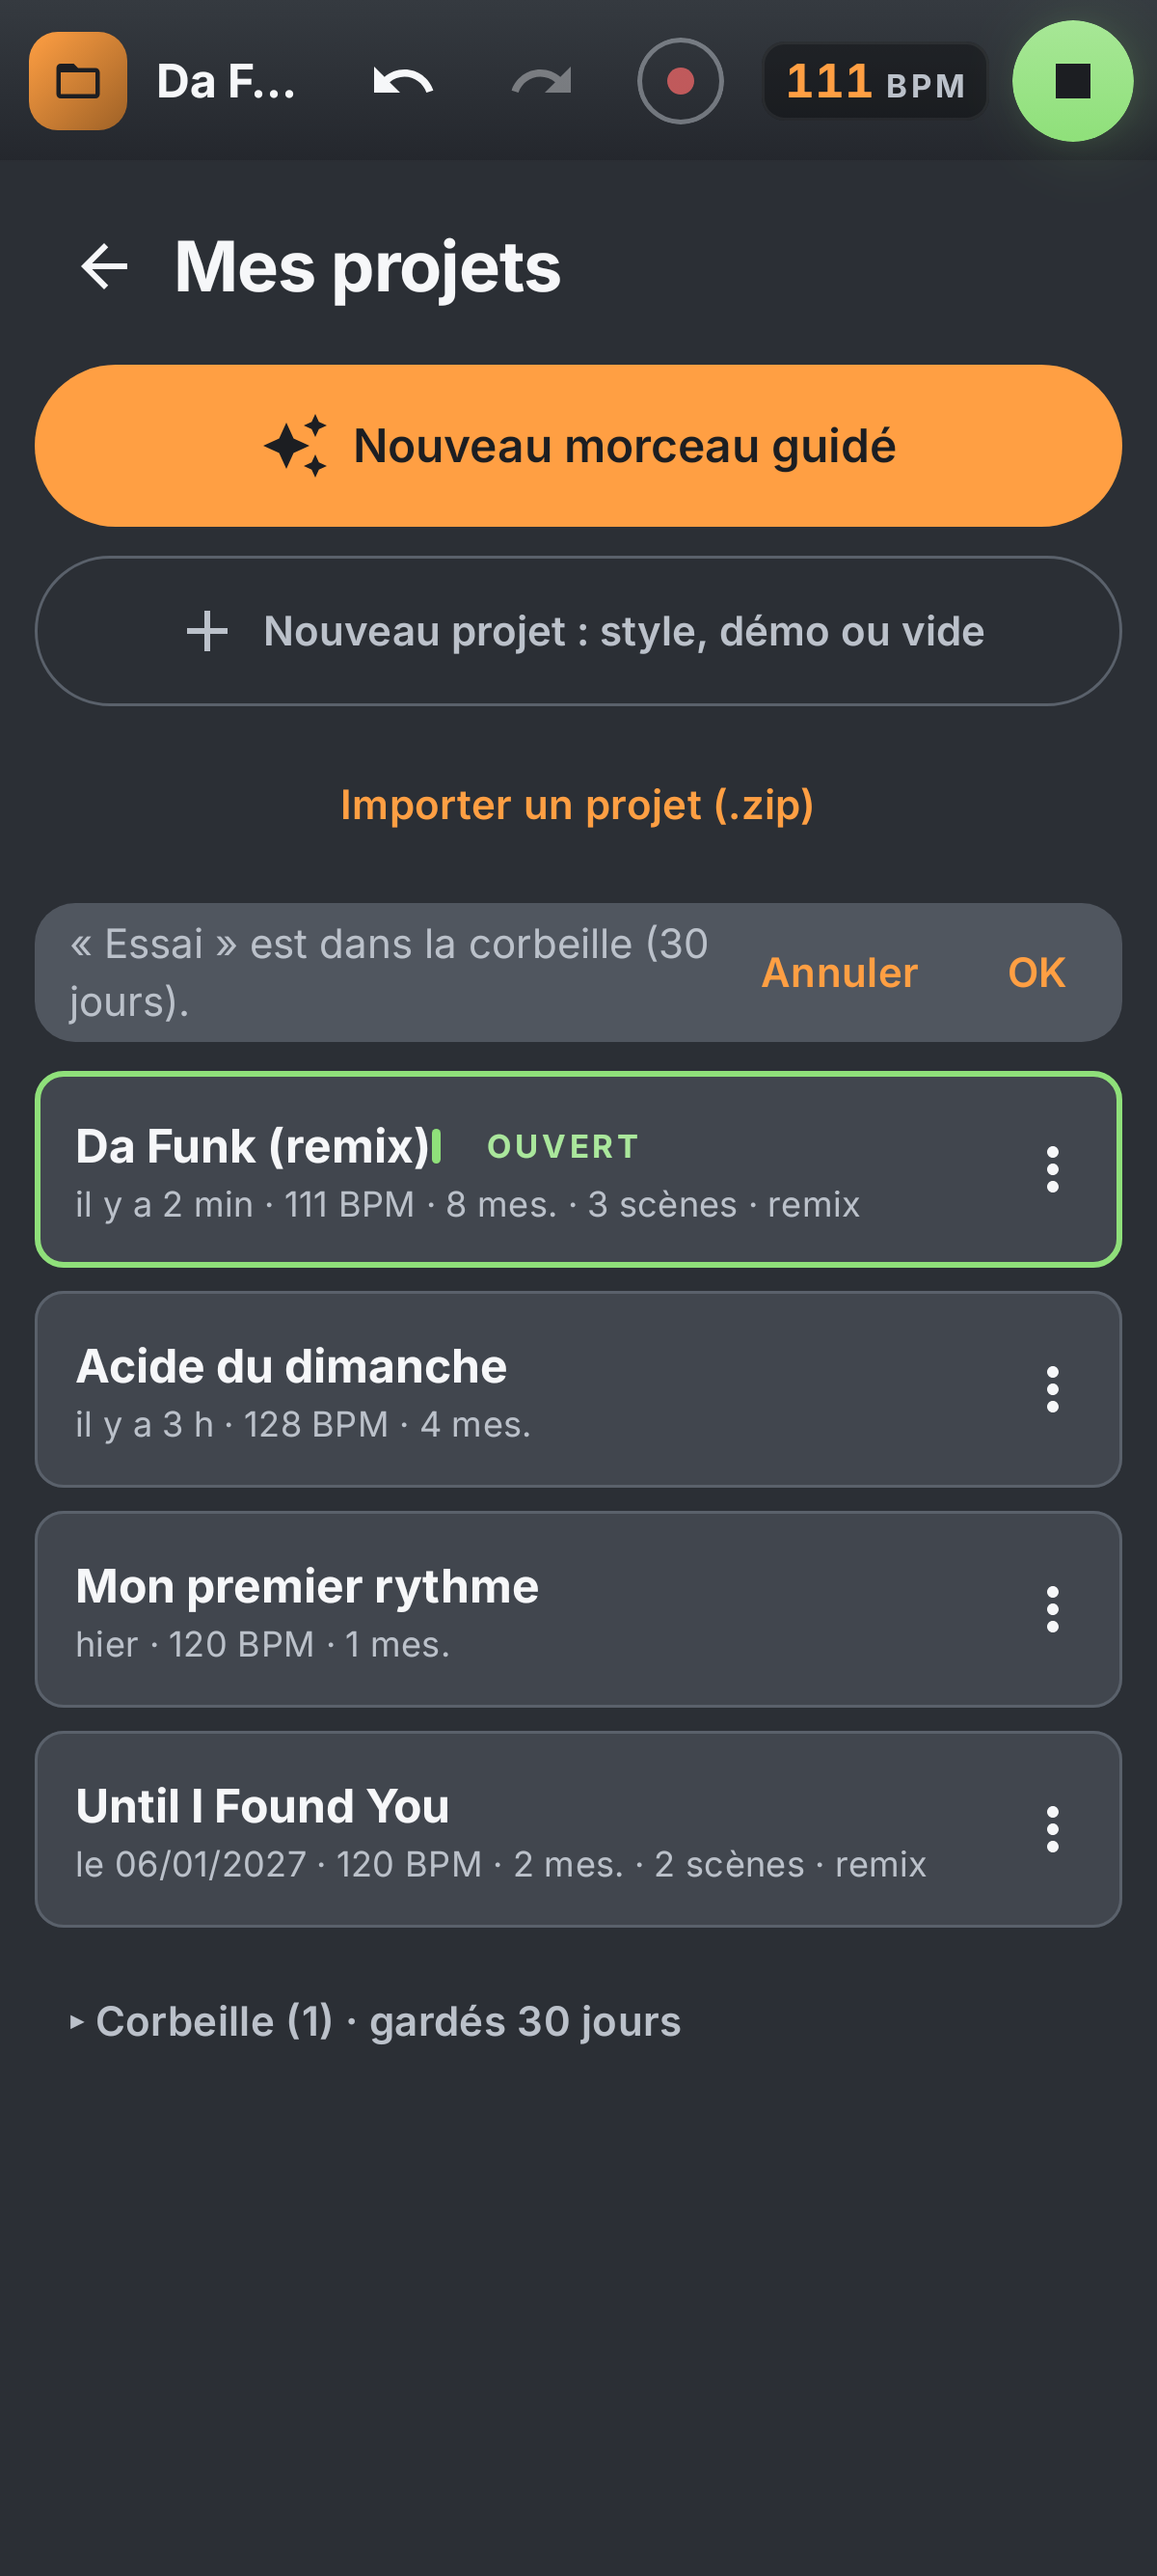
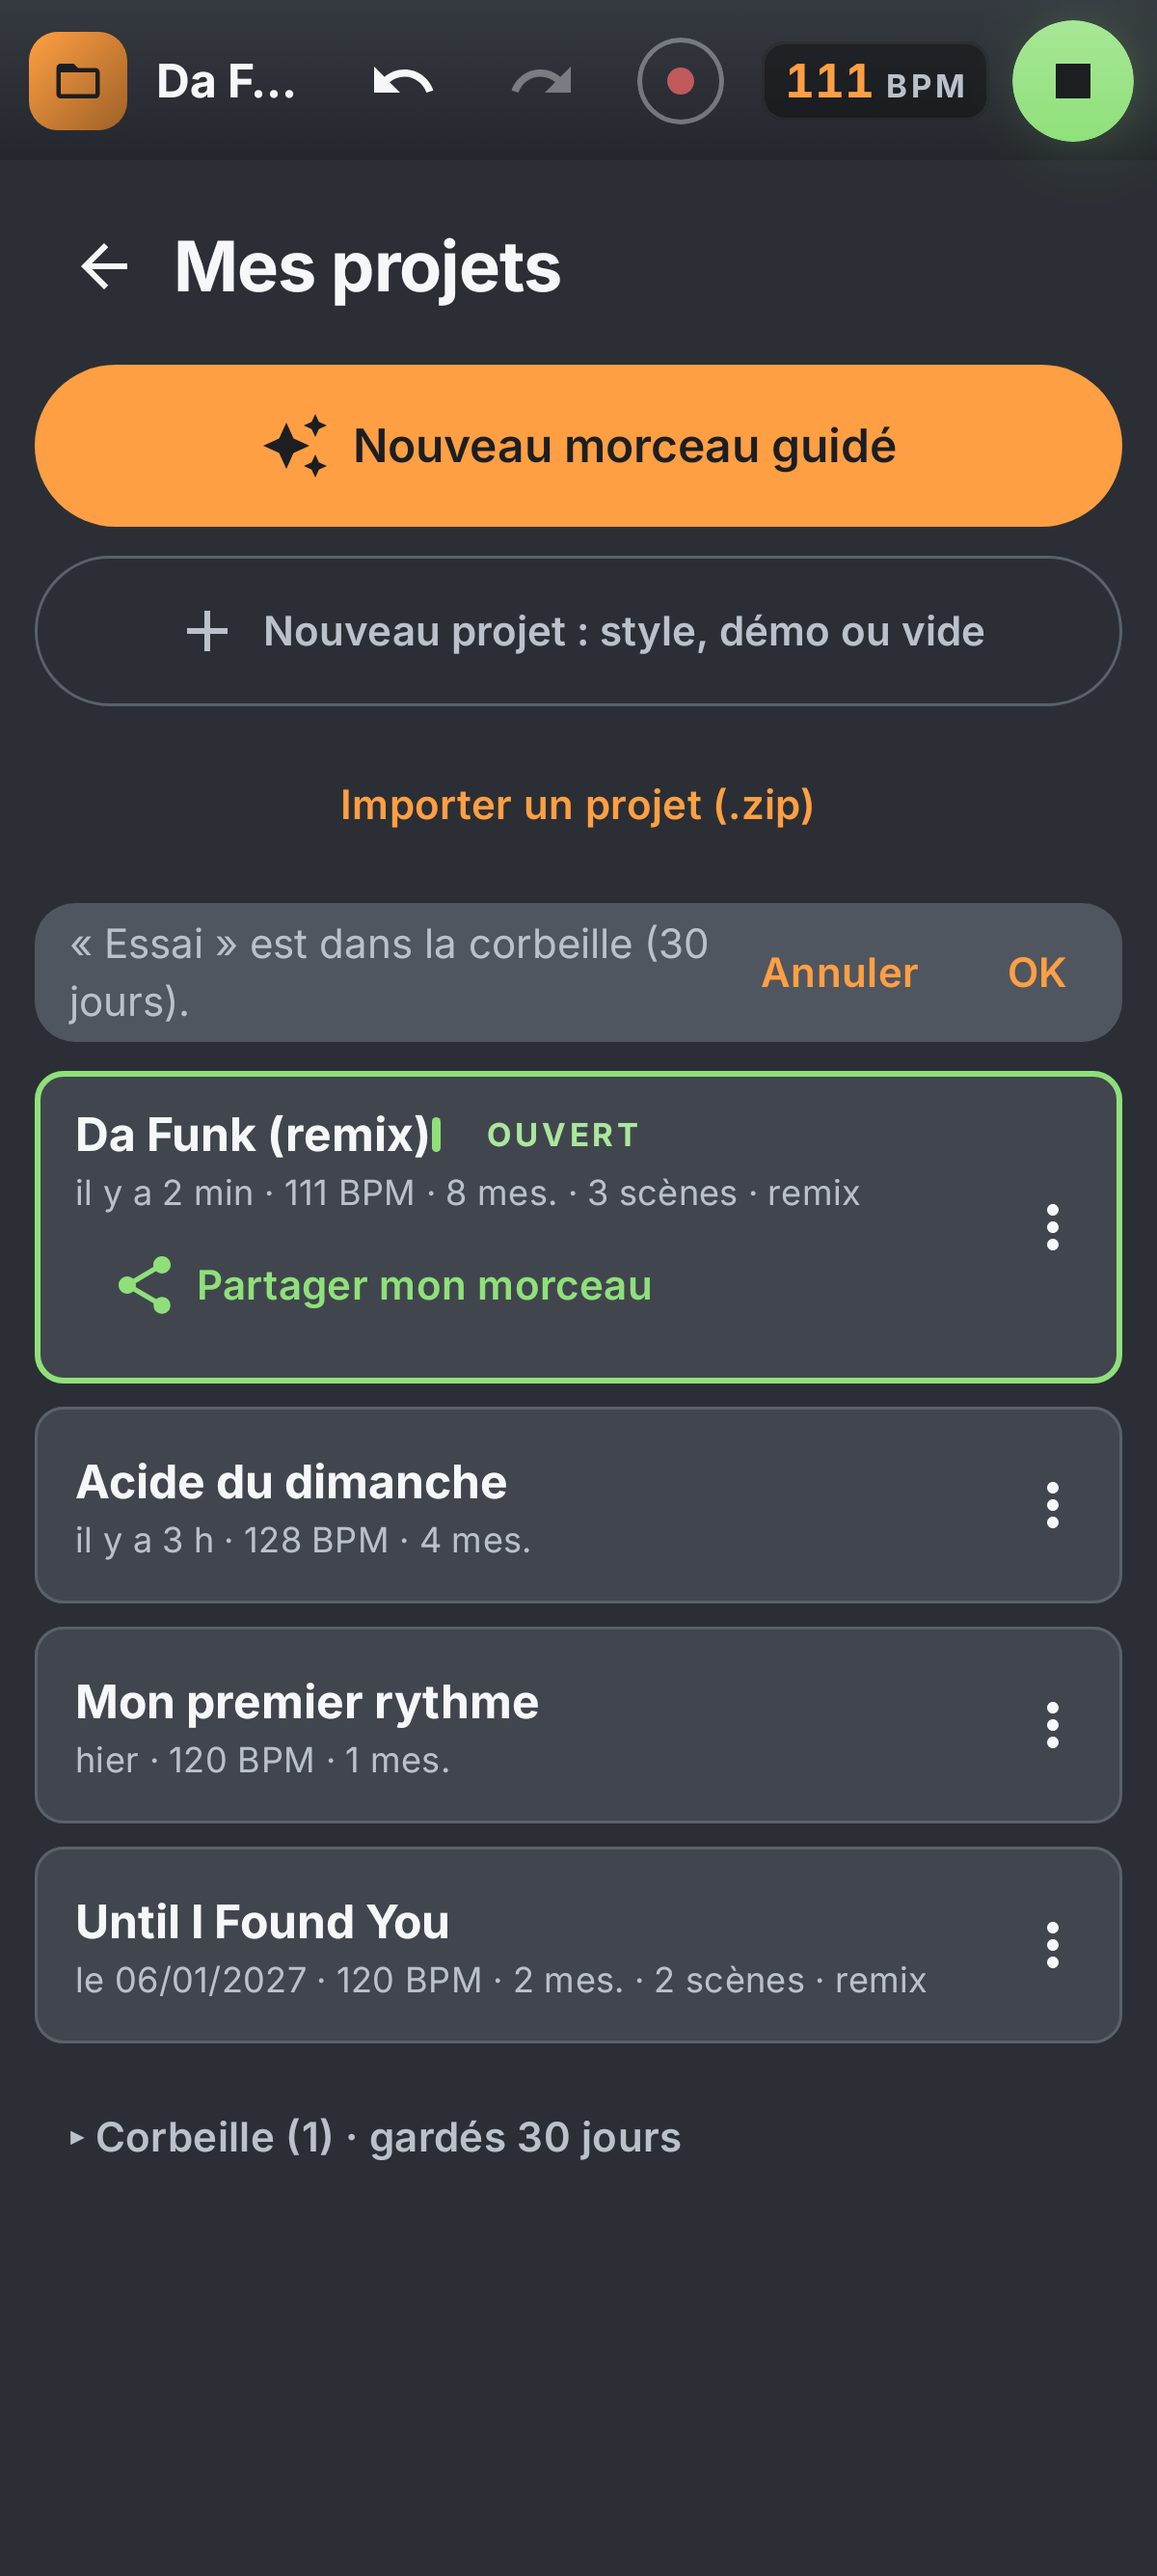
Phase 21: review fixes, changelog, checklist and docs
- Song edits first catch up with a swap or song end the watch has not seen.
- Edits held for a scene are pushed when it takes over.
- Starting the song leaves no undo step; the guide says what play does.
- A refused insert shifts nothing; copying onto a named scene keeps its name.

Claude-Session: https://claude.ai/code/session_01NqonxZBBysqqWBbnsC2VTP

Changed region(s): [[0.0308, 0.4352, 0.9867, 0.8393]]

diff --git a/app/src/main/java/com/pocketstudio/app/rhythm/RhythmViewModel.kt b/app/src/main/java/com/pocketstudio/app/rhythm/RhythmViewModel.kt
@@ -1240,7 +1240,9 @@ class RhythmViewModel(app: Application) : AndroidViewModel(app) {
         }
         val place = at.coerceIn(0, project.value.song.size)
         val following = songPlaying()
+        val before = project.value.song
         session.edit { it.insertSongPart(place, scene) }
+        if (project.value.song == before) return  // refused (a scene no longer there): nothing moved
         // Playing: the part on now keeps playing; one inserted right after it comes next.
         if (following) followSongEdit { i, explicit -> if (if (explicit) place <= i else place < i) i + 1 else i }
     }
@@ -1368,7 +1370,8 @@ class RhythmViewModel(app: Application) : AndroidViewModel(app) {
         val song = project.value.song
         if (index !in song.indices || !NativeEngine.isAvailable) return
         val part = song[index]
-        if (_followSong.value) session.edit { it.switchScene(part.scene) }
+        // Playing is not an edit: no undo step for the screens going to the part's scene.
+        if (_followSong.value) session.editQuietly { it.switchScene(part.scene) }
         syncEngine()
         pushPart(project.value, part.scene, part)  // the part's scene without its muted tracks
         heardScene = part.scene
@@ -1450,6 +1453,15 @@ class RhythmViewModel(app: Application) : AndroidViewModel(app) {
      * [SessionUi.queued]), the first again when the song starts over, or the song's end.
      */
     private fun stageSongPart() {
+        // The engine may have swapped (or ended the song) since the 40 ms watch last looked: follow
+        // it first, or this would stage from a part that is no longer playing.
+        if (NativeEngine.isAvailable && _transport.value.playing && NativeEngine.sceneSwaps() != swapsSeen &&
+            (_sessionUi.value.pending != null || _sessionUi.value.ending)
+        ) {
+            swapsSeen = NativeEngine.sceneSwaps()
+            onSceneSwapped()
+            return
+        }
         val ui = _sessionUi.value
         val p = project.value
         val song = p.song
@@ -1500,6 +1512,11 @@ class RhythmViewModel(app: Application) : AndroidViewModel(app) {
             song.isEmpty() -> -1
             ui.songIndex >= 0 -> songNextIndex(ui.songIndex, ui.queued, song.size, loops = true)
             else -> ui.queued.takeIf { it in song.indices } ?: -1  // the song starts from the part chosen
+        }
+        // Edits held for this scene ("rester sur ma scène") that the waiting copy missed: it plays now.
+        if (restageJob?.isActive == true && now == project.value.scene) {
+            restageJob?.cancel()
+            pushPart(project.value, now, song.getOrNull(index)?.takeIf { it.scene == now })
         }
         if (index >= 0) {
             _sessionUi.value = SessionUi(songIndex = index)

diff --git a/app/src/main/java/com/pocketstudio/app/library/SongGuide.kt b/app/src/main/java/com/pocketstudio/app/library/SongGuide.kt
@@ -65,7 +65,7 @@ fun songGuide(styleName: String, plan: StarterWizard.ScenePlan, inKey: Boolean, 
         GuidePage(
             "Écouter une section",
             listOf(
-                "▶ en haut joue la section affichée, en boucle. Tu commences sur l'Intro.",
+                "▶ en haut joue tout le morceau, de l'Intro à la fin. Pour écouter une seule section en boucle : Morceau › Écouter « la scène ».",
                 "Onglet Morceau › Scènes : touche Couplet ou Refrain pour l'afficher et l'écouter. Pendant la lecture, elle prend le relais à la mesure suivante.",
                 "Ce que tu vois dans Rythme, Acide et Synthé, c'est toujours la section affichée.",
             ),

diff --git a/project-model/src/main/kotlin/com/pocketstudio/model/Scenes.kt b/project-model/src/main/kotlin/com/pocketstudio/model/Scenes.kt
@@ -137,7 +137,8 @@ fun Project.copySceneTo(index: Int): Project {
     val synced = syncScenes()
     val existing = synced.allScenes
     val list = (existing + List((index + 1 - existing.size).coerceAtLeast(0)) { Scene() }).toMutableList()
-    list[index] = synced.currentSceneContent()
+    // A named slot keeps its name (copying the Couplet onto « Couplet 2 »).
+    list[index] = synced.currentSceneContent().copy(label = list[index].label)
     val automation = synced.automation.map { lane ->
         val own = lane.sceneValues[synced.scene]
         lane.copy(sceneValues = if (own != null) lane.sceneValues + (index to own) else lane.sceneValues - index)

diff --git a/docs/REVIEW.md b/docs/REVIEW.md
@@ -492,3 +492,23 @@ Restant (mineur, noté) :
 - Rotation pendant une prise : les instruments GM sont reconstruits (notes tenues coupées sur ces pistes).
 - Filtre XY passe-bas → passe-haut : ~10 ms de fondu avec la mauvaise coupure.
 - `HeldKeysTest` teste une copie de la logique plutôt que le vrai ViewModel.
+
+## Phase 21 : du brouillon au morceau
+
+Trois audits neufs (débutant, moyen, confirmé), puis trois correcteurs en parallèle (assistant et accueil ; morceau ; barre du haut et partage). Relecture neuve : aucun grave.
+
+Moyens corrigés :
+- Une modification du morceau juste après un changement de partie (ou la fin) partait de l'ancienne partie : l'app rattrape d'abord le moteur.
+- « Rester sur ma scène » : une modification faite juste avant le passage de sa scène pouvait ne pas s'entendre ; elle est renvoyée à la prise de relais.
+- Lancer le morceau laissait une étape d'annulation ; le guide disait encore que ▶ joue la section affichée.
+- Insérer une partie refusée décalait la lecture ; copier sur une scène nommée effaçait son nom.
+
+Restant (mineur, noté) :
+- La logique de lecture du morceau dans le ViewModel (garde des modifications, remappage des parties pendant la lecture) n'est testée qu'à l'arrêt : sortir ces calculs en fonctions pures.
+- `songIndexAfterInsert` est testé mais le ViewModel a ses propres lambdas.
+- Annuler pendant la lecture du morceau oublie la partie choisie « ensuite ».
+- Enregistrer pendant « rester sur ma scène » : les notes vont dans la scène affichée, calées sur celle qui joue.
+- Partage terminé en arrière-plan : la feuille de partage peut s'ouvrir plus tard ; le fichier partagé apparaît aussi dans la liste des exports.
+- La durée annoncée par l'assistant (« environ 2 min 40 ») peut différer un peu de la durée réelle.
+- Le menu ⋮ d'une partie reste à l'ancienne place après un déplacement.
+- La fenêtre « Nommer la scène » n'a pas de test d'écran (Robolectric ne se stabilise pas avec un champ de texte dans une fenêtre).

diff --git a/docs/PROGRESS.md b/docs/PROGRESS.md
@@ -163,7 +163,7 @@
 - Phase 20 (branche phase20-wip, fusion de phase20-a/b/c) : corrections de l'audit d'utilisation, voir `docs/REVIEW.md`.
 
 ## Prochaine étape exacte
-1. Phases 16 à 20 fusionnées (#27 à #31). Phase 20 = audit d'utilisation complet (quatre parcours) + scènes neuves/vidées. Attendre le retour de recette de Benjamin (issues GitHub) avant tout le reste.
+1. Phases 16 à 21 fusionnées (#27 à #32). Phase 21 = du brouillon au morceau (scènes nommées, assistant en sections, morceau éditable, partage en un geste). En cours : phase 22 (langues FR/EN/NL + tablette), puis audit à 5 (3 débutants, 1 pro, 1 contrôleur des langues), puis l'assistant style par style (vraie chanson de ~3 min).
 2. Ensuite, dans l'ordre :
    - le niveau général (marge, limiteur, vumètre avant le limiteur), à mesurer sur le téléphone ;
    - le tempo changé pendant la lecture (pads calés, Remix) ;
